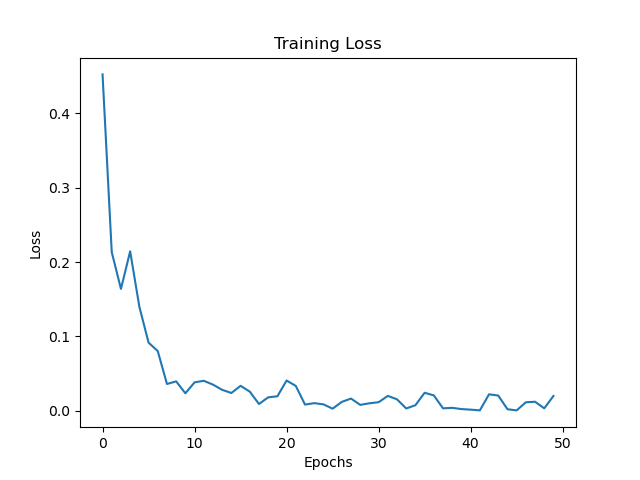
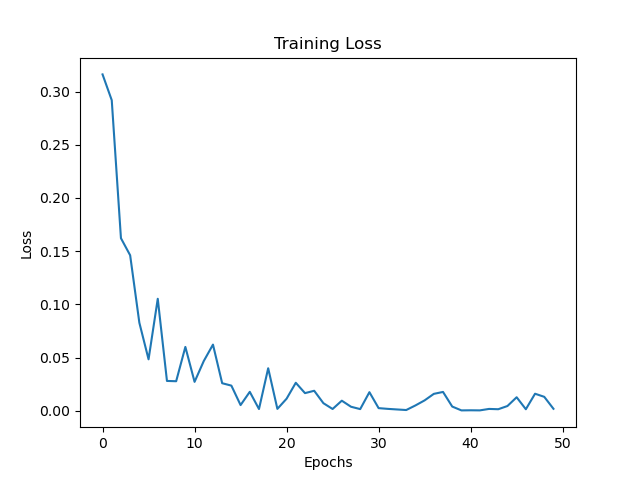
last update

diff --git a/PyTorch_scripts/mortality_prediction/02_FFN_mortality_tuning.py b/PyTorch_scripts/mortality_prediction/02_FFN_mortality_tuning.py
@@ -175,7 +175,7 @@ def train():
                             cv=K_FOLDS,
                             scoring=scorer,
                             refit=True,
-                            verbose=True)
+                            verbose=False)
 
         grid_result = grid.fit(X_train_t, y_train_t)
 
@@ -198,9 +198,9 @@ def train():
             criterion=nn.BCEWithLogitsLoss,
             optimizer=optim.Adam,
             module__input_dim=input_dim,
-            module__activation=nn.Sigmoid,
+            module__activation=nn.ReLU,
             module__drop_out=0.5,
-            module__hidden_dim=100
+            module__hidden_dim=50
         )
         best_model = best_model.fit(X_train_t, y_train_t)
 

diff --git a/PyTorch_scripts/mortality_prediction/02_FFN_mortality.py b/PyTorch_scripts/mortality_prediction/02_FFN_mortality.py
@@ -33,7 +33,7 @@ N_EPOCHS = 50
 LEARNING_RATE = 0.001
 DROP_OUT = 0.5
 K_FOLDS = 5
-WITH_CCS = False
+WITH_CCS = True
 
 class Network(nn.Module):
     def __init__(self, input_dim):

diff --git a/README.md b/README.md
@@ -72,3 +72,4 @@ concept_annotation
    1. The next set of scripts are inside of the PyTorch_scripts/mortality_prediction directory
    2. Run python 01_data_prep_mortality.py, which will prepare the datasets for NN training/testing. This script will output two files, prepared_data.npz and prepared_data_deathTime.npz to the data folder
    3. Run python 02_FFN_mortality.py, which will train and test the FNN, and will output AUC-ROC along with loss for the train and test datasets to the terminal
+6. Optional: you may run hyperparameter tuning by issuing the following command: python 02_FFN_mortality_tuning.py. However, this has already been done, and the best parameters are set as the defaults in the 02_FFN_mortality.py script.
